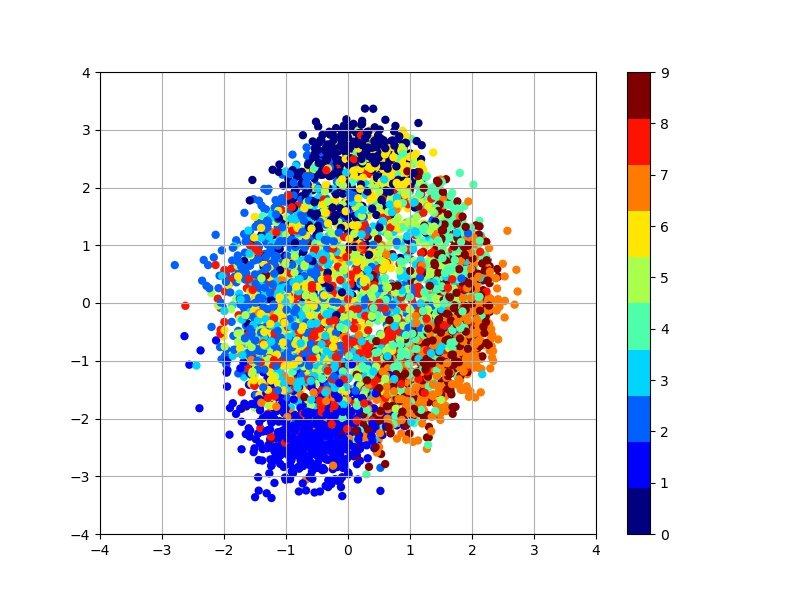
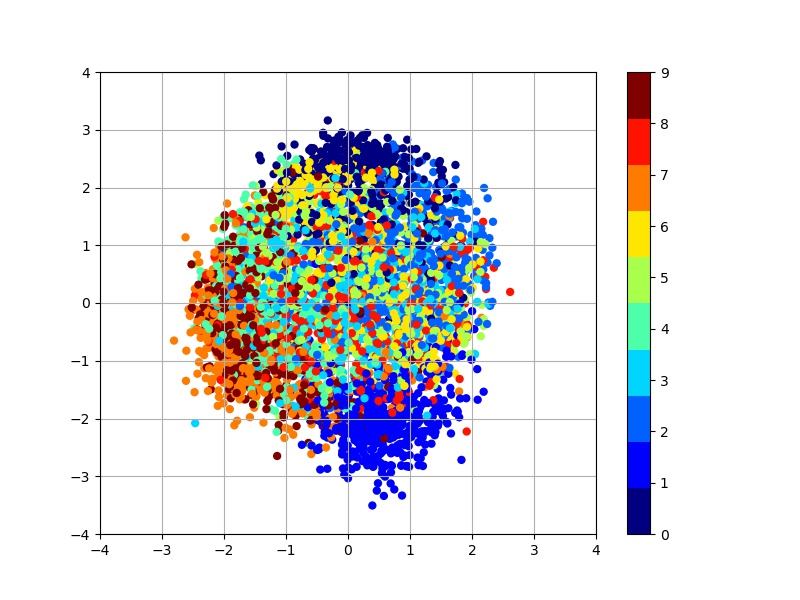
1.0 the performance is not good. Can not find problems.

Changed region(s): [[0.2188, 0.15, 0.6562, 0.84], [0.2188, 0.69, 0.25, 0.72]]

diff --git a/run_main.py b/run_main.py
@@ -182,9 +182,9 @@ def check_args(args):
 def main(args):
 
 
-    torch.manual_seed(222)
-    torch.cuda.manual_seed_all(222)
-    np.random.seed(222)
+    # torch.manual_seed(222)
+    # torch.cuda.manual_seed_all(222)
+    # np.random.seed(222)
 
 
     device = torch.device('cuda')
@@ -223,6 +223,7 @@ def main(args):
     decoder = vae.Decoder(dim_z, n_hidden, dim_img, keep_prob).to(device)
     # + operator will return but .extend is inplace no return.
     optimizer = torch.optim.Adam(list(encoder.parameters()) + list(decoder.parameters()), lr=learn_rate)
+    # vae.init_weights(encoder, decoder)
 
     """ training """
     # Plot for reproduce performance
@@ -244,6 +245,8 @@ def main(args):
             PRR.save_images(x_PRR_img, name='input_noise.jpg')
             print('saved:', 'input_noise.jpg')
 
+        x_PRR = torch.from_numpy(x_PRR).float().to(device)
+
     # Plot for manifold learning result
     if PMLR and dim_z == 2:
 
@@ -257,9 +260,9 @@ def main(args):
             x_PMLR = x_PMLR * np.random.randint(2, size=x_PMLR.shape)
             x_PMLR += np.random.randint(2, size=x_PMLR.shape)
 
-    x_PRR = torch.from_numpy(x_PRR).float().to(device)
-    z_ = torch.from_numpy(PMLR.z).float().to(device)
-    x_PMLR = torch.from_numpy(x_PMLR).float().to(device)
+
+        z_ = torch.from_numpy(PMLR.z).float().to(device)
+        x_PMLR = torch.from_numpy(x_PMLR).float().to(device)
 
 
     # train
@@ -289,8 +292,11 @@ def main(args):
             batch_xs_input, batch_xs_target = torch.from_numpy(batch_xs_input).float().to(device), \
                                               torch.from_numpy(batch_xs_target).float().to(device)
 
+            assert not torch.isnan(batch_xs_input).any()
+            assert not torch.isnan(batch_xs_target).any()
+
             y, z, tot_loss, loss_likelihood, loss_divergence = \
-                                        vae.get_loss(encoder, decoder, batch_xs_target, batch_xs_input)
+                                        vae.get_loss(encoder, decoder, batch_xs_input, batch_xs_target)
 
             optimizer.zero_grad()
             tot_loss.backward()
@@ -298,15 +304,19 @@ def main(args):
 
 
 
-        # print cost every epoch
+            # print cost every epoch
         print("epoch %d: L_tot %03.2f L_likelihood %03.2f L_divergence %03.2f" % (
                                                 epoch, tot_loss.item(), loss_likelihood.item(), loss_divergence.item()))
+
+
+
 
         encoder.eval()
         decoder.eval()
         # if minimum loss is updated or final epoch, plot results
         if min_tot_loss > tot_loss.item() or epoch + 1 == n_epochs:
             min_tot_loss = tot_loss.item()
+
             # Plot for reproduce performance
             if PRR:
                 y_PRR = vae.get_ae(encoder, decoder, x_PRR)

diff --git a/vae.py b/vae.py
@@ -79,6 +79,25 @@ class Decoder(nn.Module):
         """
         return self.net(h)
 
+
+
+def init_weights(encoder, decoder):
+
+    def init_(m):
+        with torch.no_grad():
+            if isinstance(m, nn.Linear):
+                nn.init.kaiming_normal_(m.weight)
+                nn.init.constant_(m.bias, 0.0)
+
+    for m in encoder.modules():
+        m.apply(init_)
+    for m in decoder.modules():
+        m.apply(init_)
+
+    print('weights inited!')
+
+
+
 def get_ae(encoder, decoder, x):
     # encoding
     mu, sigma = encoder(x)
@@ -127,7 +146,10 @@ def get_loss(encoder, decoder, x, x_target):
 
 
     # loss
-    marginal_likelihood = torch.sum(x_target * torch.log(y) + (1 - x_target) * torch.log(1 - y)) / batchsz
+    # marginal_likelihood2 = torch.sum(x_target * torch.log(y) + (1 - x_target) * torch.log(1 - y)) / batchsz
+    marginal_likelihood = -F.binary_cross_entropy(y, x_target, reduction='sum') / batchsz
+    # print(marginal_likelihood2.item(), marginal_likelihood.item())
+
     KL_divergence = 0.5 * torch.sum(
                                 torch.pow(mu, 2) +
                                 torch.pow(sigma, 2) -
@@ -138,7 +160,7 @@ def get_loss(encoder, decoder, x, x_target):
 
     loss = -ELBO
 
-    return y, z, loss, -marginal_likelihood, KL_divergence
+    return y, z, loss, marginal_likelihood, KL_divergence
 
 
 # # Gaussian MLP as encoder

diff --git a/test.py b/test.py
@@ -1,0 +1,41 @@
+import  torch
+import  tensorflow as tf
+from    torch.nn import functional as F
+
+
+tf.enable_eager_execution()
+
+
+
+
+
+
+
+
+def main():
+
+    y = torch.rand((3,20))
+    x = torch.randint(0, 2, (3,20))
+
+    print(x)
+    print(y)
+
+    loss = torch.sum(x * torch.log(y) + (1 - x) * torch.log(1 - y)) / 3
+    loss2 = -F.binary_cross_entropy(y, x, reduction='sum') / 3
+
+
+    x = tf.Variable(x.numpy())
+    y = tf.Variable(y.numpy())
+
+    loss3 = tf.reduce_sum(x * tf.log(y) + (1 - x) * tf.log(1 - y)) / 3
+    y = tf.clip_by_value(y, 1e-8, 1 - 1e-8)
+    loss4 = tf.reduce_sum(x * tf.log(y) + (1 - x) * tf.log(1 - y)) / 3
+
+
+    print(loss, loss2, loss3, loss4)
+
+
+if __name__ == '__main__':
+    main()
+
+

diff --git a/README.md b/README.md
@@ -3,7 +3,7 @@
 - Python: 3.6+
 
 
-An implementation of variational auto-encoder (VAE) for MNIST descripbed in the paper:  
+An Pytorch Implementation of variational auto-encoder (VAE) for MNIST descripbed in the paper:  
 * [Auto-Encoding Variational Bayes](https://arxiv.org/pdf/1312.6114) by Kingma et al.
 
 > This repo. is developed based on [Tensorflow-mnist-vae](https://github.com/hwalsuklee/tensorflow-mnist-VAE).
@@ -27,11 +27,11 @@ python run_main.py --dim_z <each value> --num_epochs 60
 <td> 20-D latent space </td>
 </tr>
 <tr>
-<td><img src = 'results/input.jpg' height = '150px'>
-<td><img src = 'results/dim_z_2.jpg' height = '150px'>
-<td><img src = 'results/dim_z_5.jpg' height = '150px'>
-<td><img src = 'results/dim_z_10.jpg' height = '150px'>
-<td><img src = 'results/dim_z_20.jpg' height = '150px'>
+<td><img src = 'res/input.jpg' height = '150px'>
+<td><img src = 'res/dim_z_2.jpg' height = '150px'>
+<td><img src = 'res/dim_z_5.jpg' height = '150px'>
+<td><img src = 'res/dim_z_10.jpg' height = '150px'>
+<td><img src = 'res/dim_z_20.jpg' height = '150px'>
 </tr>
 </table>
 
@@ -49,9 +49,9 @@ python run_main.py --dim_z 20 --add_noise True --num_epochs 40
 <td> Restored image via VAE </td>
 </tr>
 <tr>
-<td><img src = 'results/input.jpg' height = '300px'>
-<td><img src = 'results/input_noise.jpg' height = '300px'>
-<td><img src = 'results/denoising.jpg' height = '300px'>
+<td><img src = 'res/input.jpg' height = '300px'>
+<td><img src = 'res/input_noise.jpg' height = '300px'>
+<td><img src = 'res/denoising.jpg' height = '300px'>
 </tr>
 </table>
 
@@ -67,8 +67,8 @@ python run_main.py --dim_z 2 --num_epochs 60 --PMLR True
 <td> Distribution of labeled data  </td>
 </tr>
 <tr>
-<td><img src = 'results/PMLR.jpg' height = '400px'>
-<td><img src = 'results/PMLR_map.jpg' height = '400px'>
+<td><img src = 'res/PMLR.jpg' height = '400px'>
+<td><img src = 'res/PMLR_map.jpg' height = '400px'>
 </tr>
 </table>
 
@@ -112,5 +112,3 @@ The implementation is based on the projects:
 [3] https://github.com/kvfrans/variational-autoencoder  
 [4] https://github.com/altosaar/vae
 
-## Acknowledgements
-This implementation has been tested with Tensorflow r0.12 on Windows 10.
